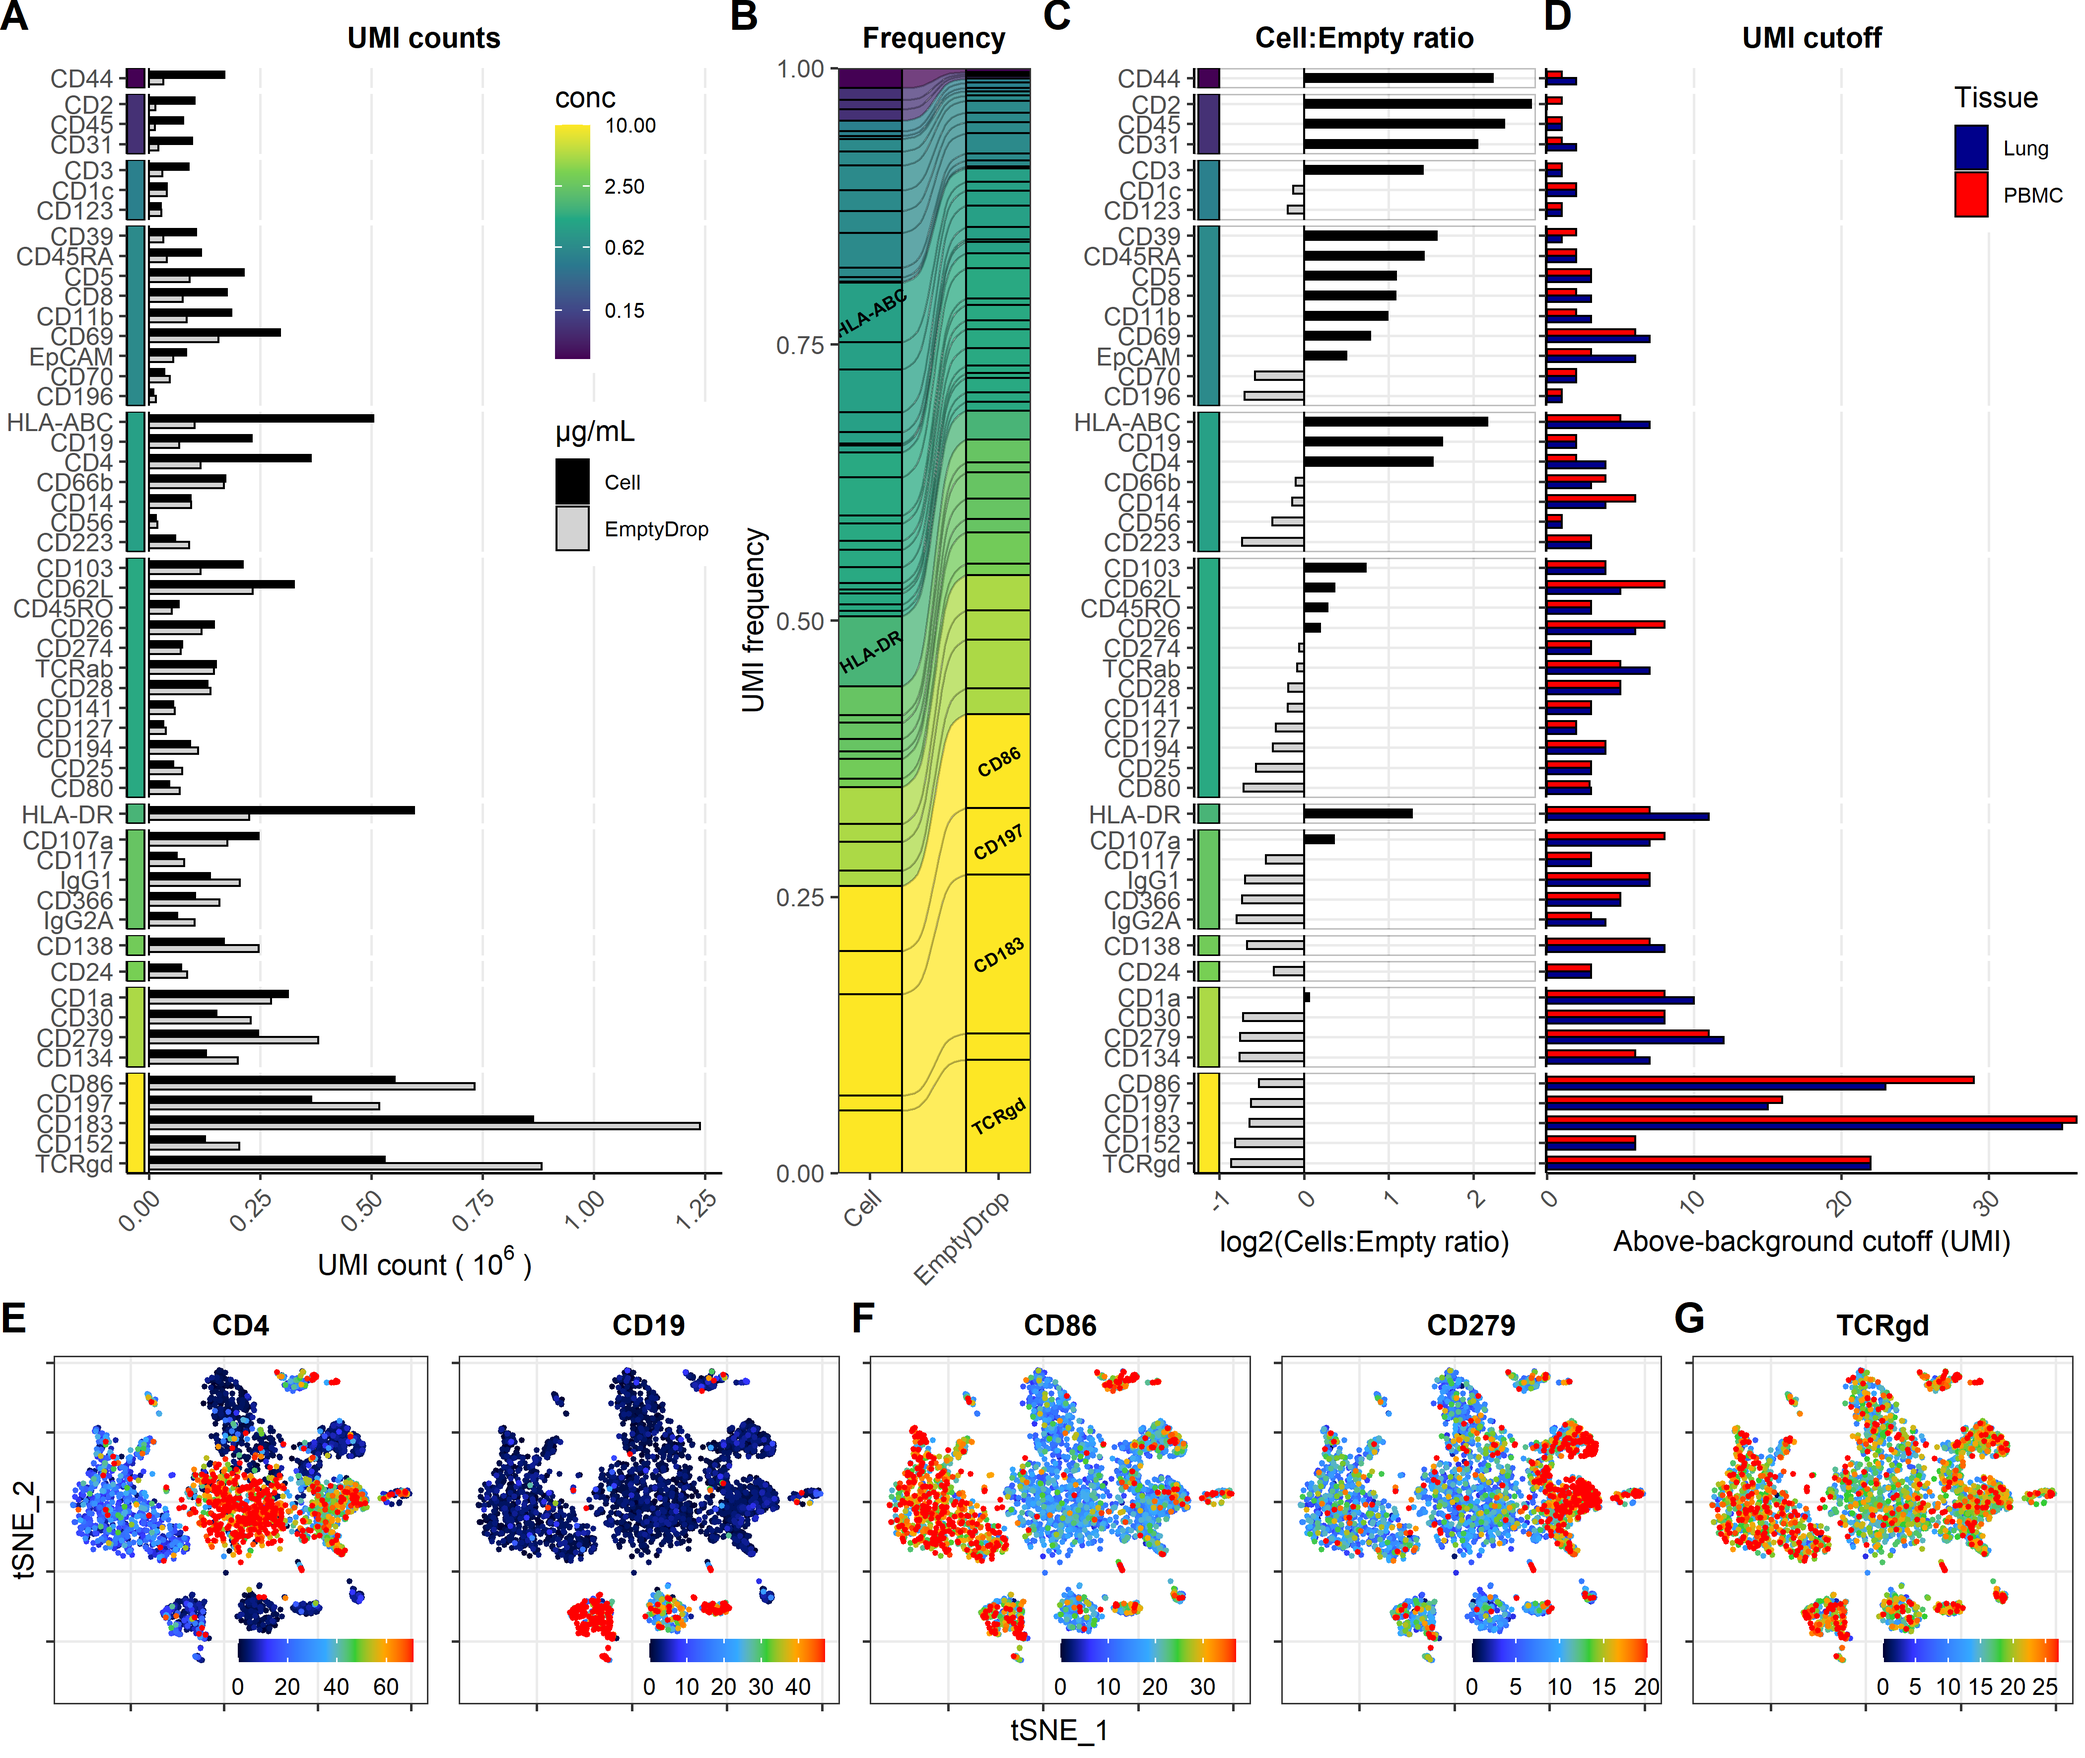
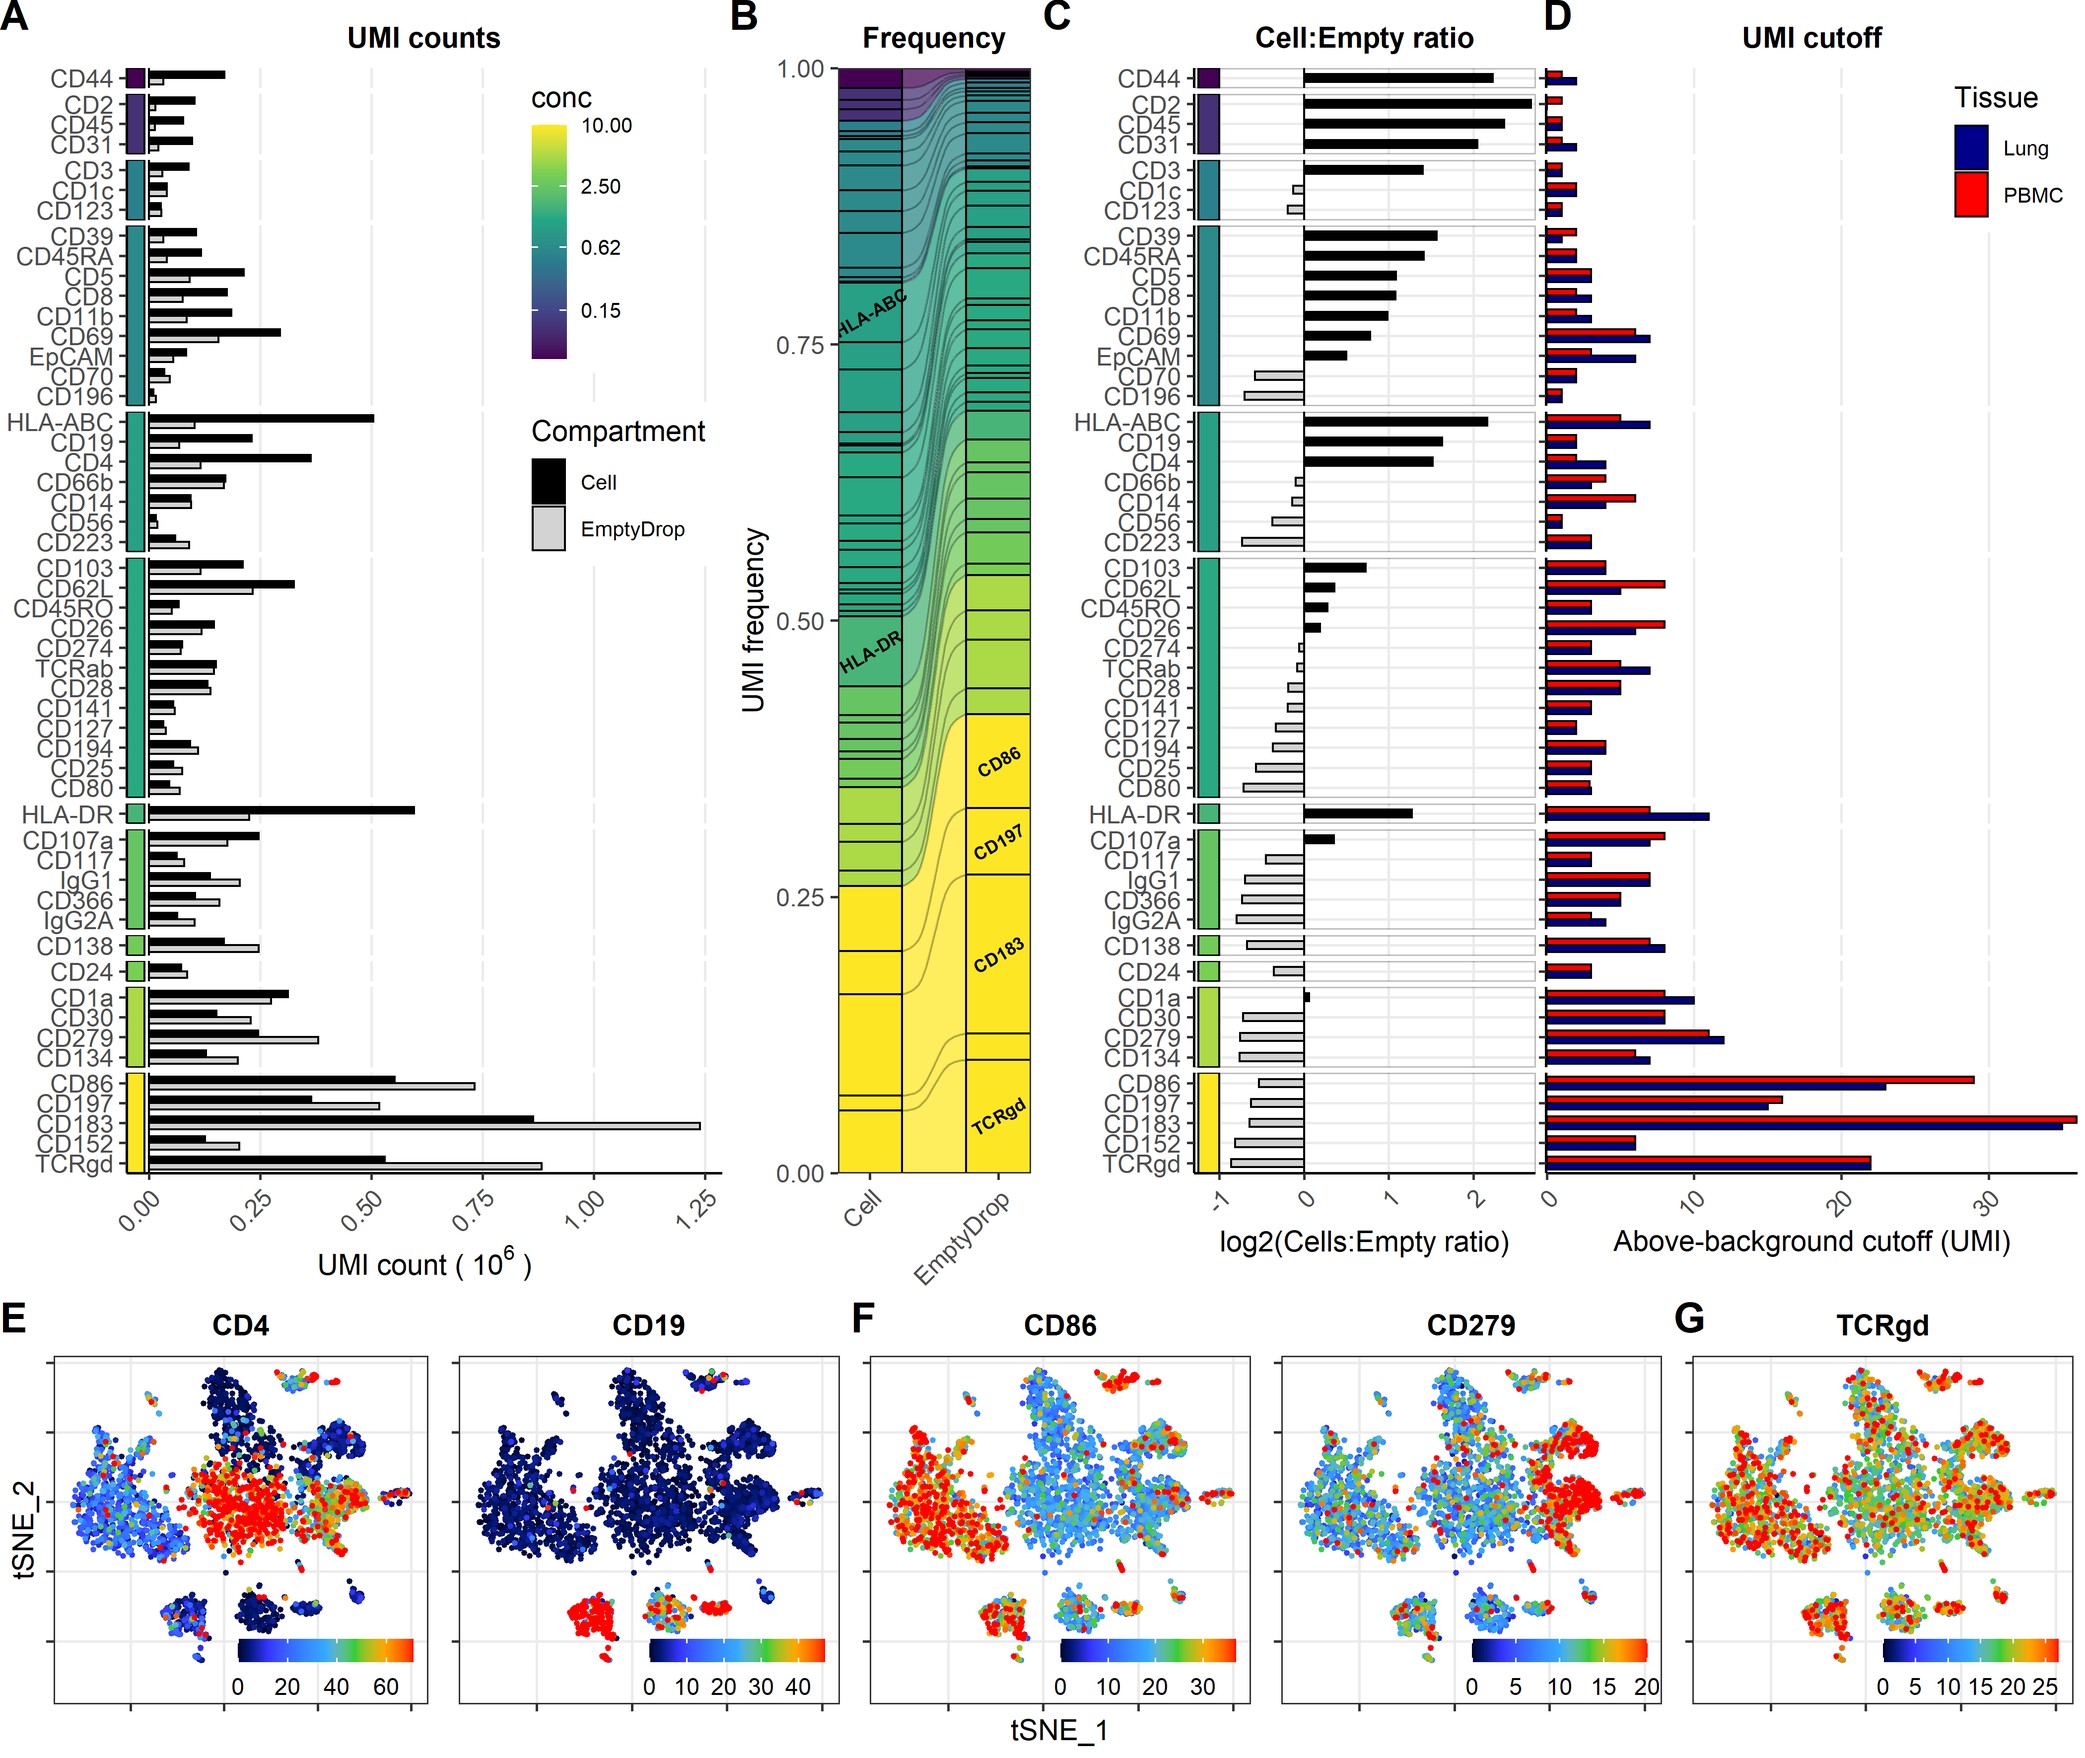
Correct key-label in Figure 5 and remove analysis of Mule et al. data.

Changed region(s): [[0.2495, 0.0311, 0.3431, 0.3107]]

diff --git a/ADT-reads-in-cells-vs-empty-drops.md b/ADT-reads-in-cells-vs-empty-drops.md
@@ -211,7 +211,7 @@ p.barplot <- ggplot(plotData, aes(x=marker, y=count/10^6)) +
   coord_flip() +
   facet_grid(rows="conc", scales="free_y", space="free_y") +
   guides(fill=guide_legend(reverse=TRUE)) + 
-  labs(title="UMI counts", y=bquote("UMI count ("~10^6~")"), fill="µg/mL") + 
+  labs(title="UMI counts", y=bquote("UMI count ("~10^6~")"), fill="Compartment") + 
   theme(plot.title=element_text(size=7, face="bold", hjust=0.5),
         panel.border=element_blank(), 
         panel.grid.major.y=element_blank(), 
@@ -519,133 +519,6 @@ p.final
 
 ``` r
 png(file=file.path(outdir,"Figure 5.png"), width=figure.width.full, height=5.9, units=figure.unit, res=figure.resolution, antialias=figure.antialias)
-p.final
-dev.off()
-```
-
-    ## png 
-    ##   2
-
-# Data from Mule et al 2020.
-
-We also looked at ratio between UMI count frequency within
-cell-containing and empty droplets from the Mulé et al 2020 dataset
-(Available from Figshare: <https://doi.org/10.1038/s41591-020-0769-8>)
-
-As we do not have full dataset, the UMI counts are not meaningful, but
-the ratio within the cell-containing and empty droplets should still
-inform on the degree of background at different antibody concentrations.
-
-``` r
-data.DSB.path <- "/Data/DSBdata"
-data.cells <- file.path(data.drive,data.DSB.path,"H1_day0_demultilexed_singlets.RDS")
-data.empty <- file.path(data.drive,data.DSB.path,"neg_control_object.rds")
-data.conc <- file.path(data.drive,data.DSB.path,"Antibody_concentration.xlsx")
-```
-
-## Load and reformat the data
-
-To make it more consistent with our setup, we will reformat the naming
-of markers.
-
-``` r
-abpanel <- data.frame(readxl::read_excel(data.conc))
-abpanel$Marker <- abpanel$Rename
-rownames(abpanel) <- abpanel$Marker
-
-cells <- readRDS(data.cells)
-empty <- readRDS(data.empty)
-
-ADT.cells <- cells@assay$CITE@raw.data
-ADT.empty <- empty@assay$CITE@raw.data
-
-renameRows <- function(names){
-  names <- gsub("_PROT","",names)
-  names <- gsub("Mouse IgG2bkIsotype","mIgG2b",names)   
-  names <- gsub("MouseIgG1kappaisotype","mIgG1",names)
-  names <- gsub("MouseIgG2akappaisotype","mIgG2a",names)
-  names <- gsub("RatIgG2bkIsotype","rIgG2b",names)
-  names <- gsub(" $","",names)
-}
-
-rownames(ADT.cells) <- renameRows(rownames(ADT.cells))
-rownames(ADT.empty) <- renameRows(rownames(ADT.empty))
-```
-
-## Calculate UMI frequency
-
-Within cell-containing and empty droplets
-
-``` r
-ADT.cells.marker <- Matrix::rowSums(ADT.cells)
-ADT.cells.marker.freq <- ADT.cells.marker/sum(ADT.cells.marker)
-ADT.empty.marker <- Matrix::rowSums(ADT.empty)
-ADT.empty.marker.freq <- ADT.empty.marker/sum(ADT.empty.marker)
-
-ADT.cellToEmptyRatio <- ADT.cells.marker.freq/ADT.empty.marker.freq
-```
-
-## Make Ratio plot
-
-``` r
-plotData <- data.frame(ratio=ADT.cellToEmptyRatio) %>% mutate(Marker=rownames(.), conc=abpanel[rownames(.),"conc"], subset=abpanel[rownames(.),"Most.positive.subset"]) %>% arrange(conc, ratio)
-
-plotData$Marker <- factor(plotData$Marker, levels=plotData$Marker)
-
-p.DSB.ratio <- ggplot(plotData, aes(x=Marker, y=log2(ratio))) + 
-  geom_bar(stat="identity", aes(fill=log2(ratio)>0), color="black", width=0.65) +
-  geom_hline(yintercept=0) + 
-  scale_fill_manual(values=c(`FALSE`="lightgrey",`TRUE`="black")) + 
-  ggnewscale::new_scale_fill() + 
-  geom_rect(aes(xmin=-Inf,xmax=Inf,ymin=-2.5,ymax=-2.85,fill=conc), col="black") + 
-  geom_text(data=plotData %>% group_by(conc) %>% summarize(length=n()) %>% mutate(subset="Cell"),aes(x=1,label=conc, y=-2.675), adj=0, vjust=0.5, size=2.5, angle=90) + 
-  scale_fill_viridis_c(trans="log2", labels=scaleFUNformat, breaks=c(0.0375,0.15,0.625,2.5,10), limits=c(0.013,10)) +
-  scale_x_discrete(expand=c(0, 0.5)) + 
-  scale_y_continuous(expand=c(0,0.05,0,0.05)) + 
-  coord_flip() + 
-  facet_grid(rows="conc", scales="free_y", space="free_y") + 
-  labs(y="log2(freq. ratio)", fill="µg/mL") + 
-  theme(panel.spacing=unit(0.5,"mm"),
-        axis.line=element_line(), 
-        axis.title.y=element_blank(), 
-        strip.placement="outside", 
-        strip.text=element_blank(), 
-        legend.position="none", 
-        legend.justification=c(0,1),
-        legend.direction="horizontal",
-        legend.text.align=0, 
-        legend.key.width=unit(0.3,"cm"), 
-        legend.key.height=unit(0.4,"cm"), 
-        legend.text=element_text(size=unit(5,"pt")))
-
-p.DSB.ratio + ggtitle("Mulé et al., 2020")
-```
-
-![](ADT-reads-in-cells-vs-empty-drops_files/figure-gfm/plotRatioDSB-1.png)<!-- -->
-
-## Combine figure with Mulé data
-
-``` r
-p.final <- cowplot::plot_grid(p.ratio + theme(plot.margin=unit(c(0.03,0,0,0),"npc")), 
-                              p.barplot + theme(plot.margin=unit(c(0,0,0,-0.005),"npc"), axis.ticks.y=element_blank()), 
-                              p.alluvial, 
-                              p.DSB.ratio + ggtitle("Data from Mulé et al., 2020"), 
-                              nrow=1, 
-                              rel_widths=c(2,3,1.5,3), 
-                              align="h", 
-                              axis="tb", 
-                              labels=c("A", "B", "C", "D"), 
-                              label_size=panel.label_size, 
-                              vjust=panel.label_vjust, 
-                              hjust=panel.label_hjust)
-
-p.final
-```
-
-![](ADT-reads-in-cells-vs-empty-drops_files/figure-gfm/DSBfigure-1.png)<!-- -->
-
-``` r
-png(file=file.path(outdir,"Figure 5 wMule.png"), width=figure.width.full, height=6.6, units=figure.unit, res=figure.resolution, antialias=figure.antialias)
 p.final
 dev.off()
 ```

diff --git a/README.md b/README.md
@@ -11,8 +11,8 @@ This repository contains all the code used in the processing of the aligned data
 * [Antibody concentration titration](Antibody-titration.md) - Figure 1, 2 and Supplementary Figure S2
 * [Reducing staining volume](Volume-titration.md) - Figure 3 and Supplementary Figure S3
 * [Reducing cell number at staining](Cell-number-titration.md) - Figure 4 and Supplementary Figure S4
-* [ADT signal in cell-containing vs. empty droplets](ADT-reads-in-cells-vs-empty-drops.md) - Figure 5
+* [ADT signal in cell-containing vs. empty droplets](ADT-reads-in-cells-vs-empty-drops.md) - Figure 5 and Supplementary Figure S7
 * [10X Datasets: UMI per marker plots](10X-Datasets-UMI-per-marker.md) - Supplementary Figure S6
-* [Comparison of ADT counting methods](ADT-counting-methods.md) - Figure 6 and Supplementary Figure S7
+* [Comparison of ADT counting methods](ADT-counting-methods.md) - Figure 6 and Supplementary Figure S8
 
 We also included the [Snakefiles](Snakemake/) used with Snakemake to generate the alignment and counting data from our dataset and for the 10X datasets.
